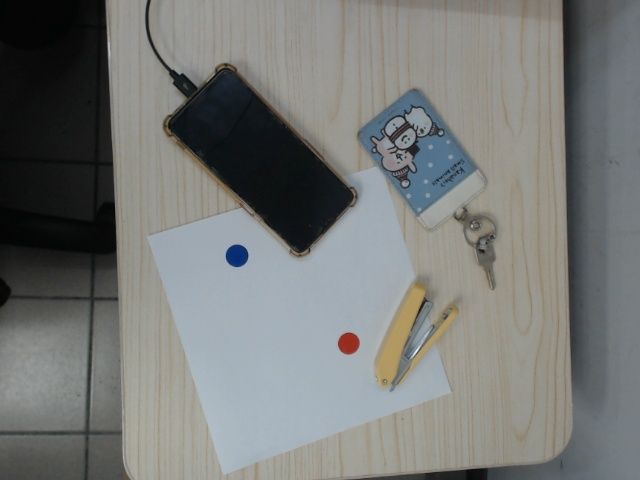
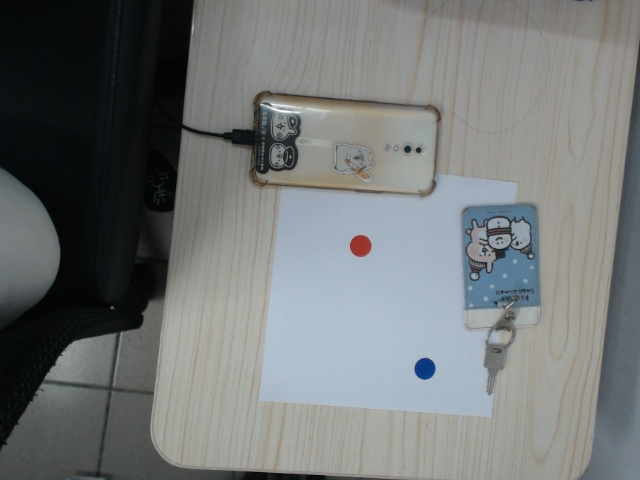
pixel to word

diff --git a/openai_demo/Controller.py b/openai_demo/Controller.py
@@ -19,6 +19,7 @@ filesize = None
 INPUT_COMMAND = None
 IMG_PATH = None
 repositioning = False
+location_point = []
 
 
 def __init__():
@@ -31,6 +32,7 @@ def __init__():
     INPUT_COMMAND = None
     IMG_PATH = None
     repositioning = False
+    location_point = []
     
 
 class Client:
@@ -47,7 +49,7 @@ class Client:
         self.client.subscribe(self.sub_list)
 
     def on_message(self, client, userdata, msg):
-        global filesize,IMG_PATH,repositioning,fp
+        global filesize,IMG_PATH,repositioning,fp,location_point
 
         if (msg.topic == "INPUT_COMMAND"):
             print("get message")
@@ -92,9 +94,11 @@ class Client:
                     
 
 
-                    self.publish("reposition_p",f"{red_center},{blue_center}")
+                    # self.publish("reposition_p",f"{red_center},{blue_center}")
                     print(f"red center = {red_center}, blue center = {blue_center}")
-                  
+                    location_point = [red_center,blue_center]
+                    print("command done, please enter the next command.")
+                    print("==============================================")
 
 
 
@@ -171,12 +175,21 @@ class Command:
         # get direct object's coordiante
         # print(f"name = {i['name']}, coordinate = {i['coordinate']}")
 
-        if (i['center_point'] == None):
+        if (i['center_point'] == None ):
             coor = Coordinate(i['name'])
+            
+            # Pixel coordiante
             i['center_point'] = coor.get_center_coordiante()
 
             if (i['center_point'] == -1):
                 print(f"{i['name']} is not in the image")
+                return 
+
+            i['center_point'] = coor.chang_pixel_to_word(i['center_point'])
+
+            if (i['center_point'] == -1):
+                print(f"{i['name']} pixel to word fail.")
+                return 
 
         # while not self.check_formate(i['coordinate']):
 
@@ -200,7 +213,13 @@ class Command:
 
             if (self.indirect_dict['center_point'] == -1):
                 print(f"{self.indirect_dict['name']} is not in the image")
-
+                return 
+            
+            self.indirect_dict['center_point'] = coor.chang_pixel_to_word(self.indirect_dict['center_point'])
+            
+            if (self.indirect_dict['center_point'] == -1):
+                print(f"{self.indirect_dict['name']} pixel to word fail.")
+                return
         # while not self.check_formate(self.indirect_dict['coordinate']):
 
         #     coordiante = self.get_coordinate(self.indirect_dict['name'])
@@ -319,9 +338,9 @@ class Coordinate:
         # check if exist
         input_question = f"is there any {VQA_result} in the image?"
         Exist_result = self.VQA(input_question)
+        print(f"the Exist_result is : {Exist_result}")
         if ("No" in Exist_result):
             return -1
-        print(f"the Exist_result is : {Exist_result}")
         
         
         # Grounding
@@ -347,14 +366,54 @@ class Coordinate:
 
                   
     def check_formate(self, s):
-        if (s == None):
+        if (s == None ):
             return False
+        
+        if (s == -1):
+            return True
         
         # (-?\d+(\.\d+)?) means number, int or float
         # template = [[x0,y0,x1,y1]]
         template = r'\[\[(-?\d+(\.\d+)?),(-?\d+(\.\d+)?),(-?\d+(\.\d+)?),(-?\d+(\.\d+)?)\]\]'
 
         return re.match(template,s)
+    
+    def chang_pixel_to_word(self,p):
+        global location_point
+
+        if location_point == []:
+            print("please reposition first")
+            return -1
+        
+        p = [int(i) for i in p.strip("()").split(',')]
+
+        imgx = p[0]
+        imgy = p[1]
+
+        p1 = [int(i) for i in location_point[0].strip("()").split(",")]
+        p2 = [int(i) for i in location_point[1].strip("()").split(",")]
+
+        imgx = p[0]
+        imgy = p[1]
+
+        p1x = p1[0]
+        p1y = p1[1]
+
+        p2x = p2[0]
+        p2y = p2[1]
+
+        r1x = 2
+        r1y = 2
+
+        r2x = 1
+        r2y = 1
+
+        wx = ((imgx-p1x) * ((p1x - p2x)/(r1x - r2x))) + r1x
+        wy = ((imgy-p1y) * ((p1y - p2y)/(r1y - r2y))) + r1y
+
+        # return f"({wx},{wy})"
+        return f"({imgx,imgy})"
+
 
 def __main__():
 

diff --git a/README.md b/README.md
@@ -2,6 +2,7 @@
 | commit | new | revise | remark |
 |:-------|:-----|:------ | - |
 |cal center point | 1.Controller.py new a Class named Coordinate. |1. revise the Controller.py, cal the center point, for RL and repositioning.| - |
+| pixel to word | - |1. pixel coordination to word coordination| - |
 # CogVLM & CogAgent
 
 📗 [中文版README](./README_zh.md)
